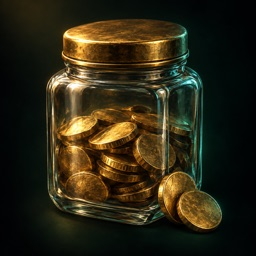
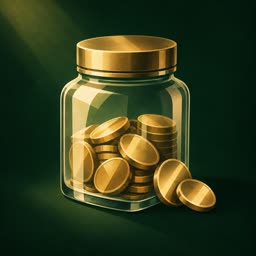
v9.1: Art Deco poster art for every rider, legend, item and the cabin
49 redrawn images, one file per character (art ~16 MB -> ~1.3 MB),
dimmed cabin, and a fix for the v9.0.4 breathing animation that
shifted seat portraits.

diff --git a/lib/release-v9.ts b/lib/release-v9.ts
@@ -215,3 +215,45 @@ export const V904_EN: ChangelogEntry = {
     'Diegetic gauges (a voltmeter needle for power, a cash register for coins) wait for the style decision.',
   ],
 };
+
+export const V91_ZH: ChangelogEntry = {
+  version: '9.1', date: '2026-09-23', title: 'Art Deco 海报画风',
+  summary: '全部人物、传奇、商店物品和电梯厢换成 1930 年代 Art Deco 旅行海报风格；小尺寸下更容易认出每个人。',
+  changes: [
+    '画风：平涂色块、清晰剪影、深瓶绿底、黄铜与奶油色，每个人物一个点缀色；每人保留原来的标志道具（通勤者的报纸、快递员的包裹、小偷的怀表、护士的白帽……）。',
+    '21 位乘客、8 位传奇（背后金色放射纹）、16 项能力和配电箱三条线路的图标、电梯厢背景全部重画，共 49 张。',
+    '电梯厢保持原构图（中间开门、地面六个站位圆），调暗以让人物在前。',
+    '每位人物改为单独图片，不再从六宫格大图里裁切；美术资源从约 16 MB 减到约 1.3 MB，首屏加载更快。',
+    '修复 v9.0.4 的问题：车厢人物的“呼吸”动画覆盖了居中定位，导致座位画像偏移、只露出一部分。',
+  ],
+  experiments: [
+    '风格选择：同一组三位乘客、电梯厢和商店物品画成三种风格，在 40 px 与 80 px 实际尺寸下对比后选定 Art Deco 海报。',
+    '生成：图像模型以选定风格的样图为参考，逐张检查画风一致、无文字、道具与人物设定一致；电梯厢以旧图为构图参考。',
+    '浏览器检查：桌面与手机车厢、候客卡、商店；规则与数值不变，verify、类型检查和构建通过。',
+  ],
+  watch: [
+    '仪表化界面（电量做成电压表指针、金币做成收银机）是下一步。',
+    '幽灵画像的背景比其他人稍亮，如在游戏里显得突兀再单独重画。',
+  ],
+};
+
+export const V91_EN: ChangelogEntry = {
+  version: '9.1', date: '2026-09-23', title: 'Art Deco poster style',
+  summary: 'Every rider, legend, shop item and the cabin redrawn as 1930s Art Deco travel posters, easier to recognise at small sizes.',
+  changes: [
+    'Style: flat gouache shapes, clean silhouettes, deep bottle-green backdrop, brass and cream with one accent colour per character; everyone keeps their signature prop (the Commuter’s newspaper, the Courier’s parcel, the Thief’s pocket watch, the Nurse’s cap…).',
+    'All 21 riders, 8 legends (with a gold sunburst behind them), the 16 ability and 3 power-box icons and the cabin background redrawn: 49 images.',
+    'The cabin keeps its layout (open doors in the centre, six floor circles) and is dimmed so riders stay in front.',
+    'Each character is now its own image instead of a crop from a six-portrait sheet; art weight drops from about 16 MB to about 1.3 MB for a faster first load.',
+    'Fixed a v9.0.4 bug: the riders’ breathing animation overrode their centring, shifting seat portraits so only part showed.',
+  ],
+  experiments: [
+    'Style choice: the same three riders, cabin and shop item were drawn in three styles and compared at the real 40 px and 80 px sizes; Art Deco poster was chosen.',
+    'Generation: an image model used the chosen style samples as reference; each image was checked for style consistency, no text and props matching the character; the cabin used the old image as its layout reference.',
+    'Browser checks: desktop and phone cabin, offer cards and shop; no rule or value changes; verify, type check and build pass.',
+  ],
+  watch: [
+    'Diegetic gauges (a voltmeter needle for power, a cash register for coins) are next.',
+    'The Ghost’s backdrop is slightly lighter than the others; redraw it if it stands out in play.',
+  ],
+};

diff --git a/lib/passenger-assets.ts b/lib/passenger-assets.ts
@@ -1,26 +1,19 @@
 // Portraits are static card illustrations; gameplay and connections never live in the bitmap.
-import { PASSENGERS, isLegend, type PassengerKind } from './game-data';
+import type { PassengerKind } from './game-data';
 
 const publicBasePath = process.env.NEXT_PUBLIC_BASE_PATH ?? '';
 const publicAsset = (path: string) => `${publicBasePath}${path}`;
 export const PASSENGER_ART = {
-  style: 'Waist-up cinematic midnight noir; bottle-green backdrop, brass and teal light; same human proportions; no text.',
-  usage: 'runtime-sprite',
+  style: 'v9.1 Art Deco travel poster: flat gouache shapes, bottle-green backdrop, brass and cream with one accent colour; legends add a gold sunburst; no text.',
+  usage: 'runtime-portrait',
   interaction: ['inspect', 'place', 'reseat', 'dismiss'],
   pivot: [0.5, 1],
   footprint: 'one of six engine-owned slots',
   motion: 'static portrait; UI transition only, no simulated walking',
-  newer: {
-    mystery: publicAsset('/assets/mystery-v6.png'),
-    shifter: publicAsset('/assets/shifter-v6.png'),
-    mimic: publicAsset('/assets/mimic-v6.png'),
-  },
 } as const;
+/** One square portrait per rider and legend (v9.1); legends are recognised by their gold sunburst and frame. */
 export function portraitAsset(kind: PassengerKind) {
-  // v9 legends: single painted portraits generated in the same style as the v6 riders.
-  if (isLegend(kind)) return {src:publicAsset(`/assets/legend-${kind}.jpg`),columns:1,rows:1,cell:0};
-  if (kind === 'mystery' || kind === 'shifter' || kind === 'mimic') return {src:PASSENGER_ART.newer[kind],columns:1,rows:1,cell:0};
-  const spec=PASSENGERS[kind]; return {src:publicAsset(`/assets/passengers-${spec.sheet}.png`),columns:3,rows:2,cell:spec.cell};
+  return { src: publicAsset(`/assets/riders/${kind}.jpg`), columns: 1, rows: 1, cell: 0 };
 }
 
 /** Object icons for shop abilities and power-box lines (one painted item each). */

diff --git a/app/globals.css b/app/globals.css
@@ -2656,4 +2656,8 @@ button { -webkit-tap-highlight-color:transparent; touch-action:manipulation; }
 @keyframes indicator-flicker { 0%,100% { opacity:1; } 61% { opacity:.25; } 62% { opacity:1; } 64% { opacity:.4; } 66% { opacity:1; } }
 @keyframes floor-roll { 0% { opacity:0; transform:translateY(70%); filter:blur(2px); } 60% { opacity:1; filter:blur(0); } 100% { transform:translateY(0); } }
 @keyframes link-draw { from { stroke-dashoffset:400; } to { stroke-dashoffset:0; } }
-@keyframes rider-breathe { from { transform:scale(1); } to { transform:scale(1.022) translateY(-1px); } }
+@keyframes rider-breathe { from { scale:1; } to { scale:1.022; } }
+/* v9.1 Art Deco cabin is brighter and flatter than the old painting: dim it so riders stay in front. */
+.game-shell .elevator-image { filter:saturate(.85) brightness(.58) contrast(1.05); }
+.game-shell .doors-moving .elevator-image { filter:saturate(.7) brightness(.45) blur(1px); }
+.game-shell .elevator-stage[data-district="nameless"] .elevator-image { filter:grayscale(.75) brightness(.5) contrast(1.1); }

diff --git a/lib/changelog.ts b/lib/changelog.ts
@@ -5,7 +5,7 @@ import {V834_EN, V834_ZH} from './release-v834';
 import {V835_EN, V835_ZH} from './release-v835';
 import {V836_EN, V836_ZH} from './release-v836';
 import {V837_EN, V837_ZH} from './release-v837';
-import {V901_EN, V901_ZH, V902_EN, V902_ZH, V903_EN, V903_ZH, V904_EN, V904_ZH, V9_EN, V9_ZH} from './release-v9';
+import {V901_EN, V901_ZH, V902_EN, V902_ZH, V903_EN, V903_ZH, V904_EN, V904_ZH, V91_EN, V91_ZH, V9_EN, V9_ZH} from './release-v9';
 
 export type ChangelogEntry = {
   version: string;
@@ -17,9 +17,10 @@ export type ChangelogEntry = {
   watch: string[];
 };
 
-export const GAME_VERSION = '9.0.4';
+export const GAME_VERSION = '9.1';
 
 export const CHANGELOG: ChangelogEntry[] = [
+  V91_ZH,
   V904_ZH,
   V903_ZH,
   V902_ZH,
@@ -579,6 +580,7 @@ export const CHANGELOG: ChangelogEntry[] = [
 ];
 
 export const CHANGELOG_EN: ChangelogEntry[] = [
+  V91_EN,
   V904_EN,
   V903_EN,
   V902_EN,

diff --git a/app/layout.tsx b/app/layout.tsx
@@ -7,7 +7,7 @@ const sans = Geist({ variable: '--font-sans', subsets: ['latin'] });
 const mono = Geist_Mono({ variable: '--font-mono', subsets: ['latin'] });
 const display = Cormorant_Garamond({ variable: '--font-display', subsets: ['latin'], weight: ['500', '600', '700'] });
 const publicBasePath = process.env.NEXT_PUBLIC_BASE_PATH ?? '';
-const elevatorImage = `${publicBasePath}/assets/elevator-cabin.png`;
+const elevatorImage = `${publicBasePath}/assets/elevator-cabin-deco.jpg`;
 const publicOrigin = process.env.GITHUB_PAGES === 'true'
   ? 'https://lovejzzz.github.io/'
   : 'https://elevator-tales-midnight.skylab.chatgpt.site/';

diff --git a/CHANGELOG.md b/CHANGELOG.md
@@ -1,6 +1,13 @@
 # Elevator Tales Changelog
 
-Every public update must add a new entry here and in `lib/changelog.ts`. Record the player-visible change, exact balance parameters, experiment size, conclusion, and remaining questions. The current version is **v9.0.4**. Publication status is tracked separately from the source version.
+Every public update must add a new entry here and in `lib/changelog.ts`. Record the player-visible change, exact balance parameters, experiment size, conclusion, and remaining questions. The current version is **v9.1**. Publication status is tracked separately from the source version.
+
+## v9.1 — 2026-09-23 — Art Deco poster style / Art Deco 海报画风
+
+- All art redrawn as 1930s Art Deco travel posters: 21 riders, 8 legends (gold sunburst), 19 shop icons, cabin background (same layout, dimmed). 49 images, each checked for style, text and props.
+- One image per character instead of six-portrait sheets; art weight ~16 MB → ~1.3 MB.
+- Fixed the v9.0.4 breathing animation overriding seat-portrait centring.
+- Chosen from a three-way comparison (current realism / Art Deco poster / noir ink) at real 40 px and 80 px sizes. No rule changes.
 
 ## v9.0.4 — 2026-09-23 — District light and cabin motion / 楼区灯光与车厢动作
 
